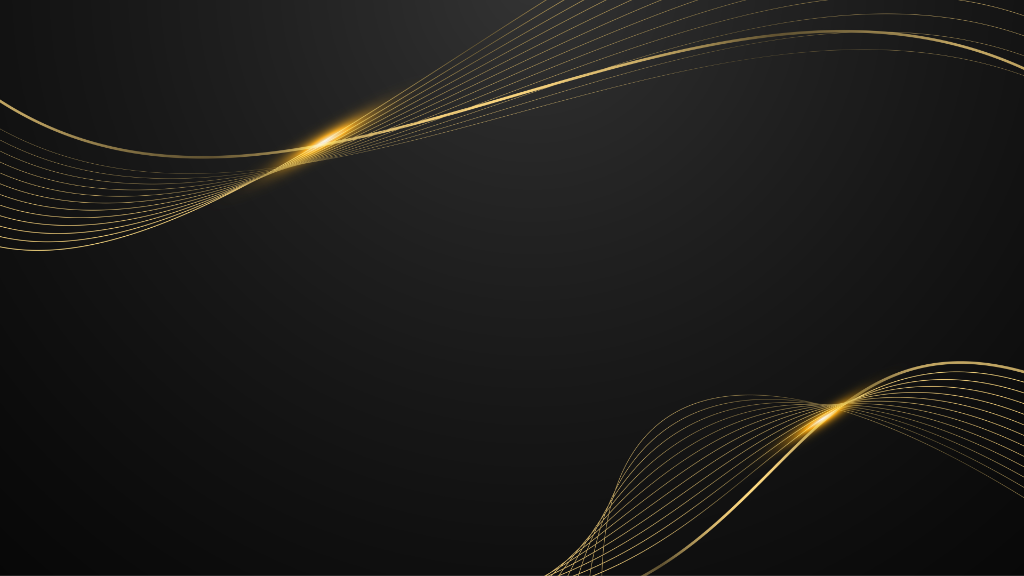
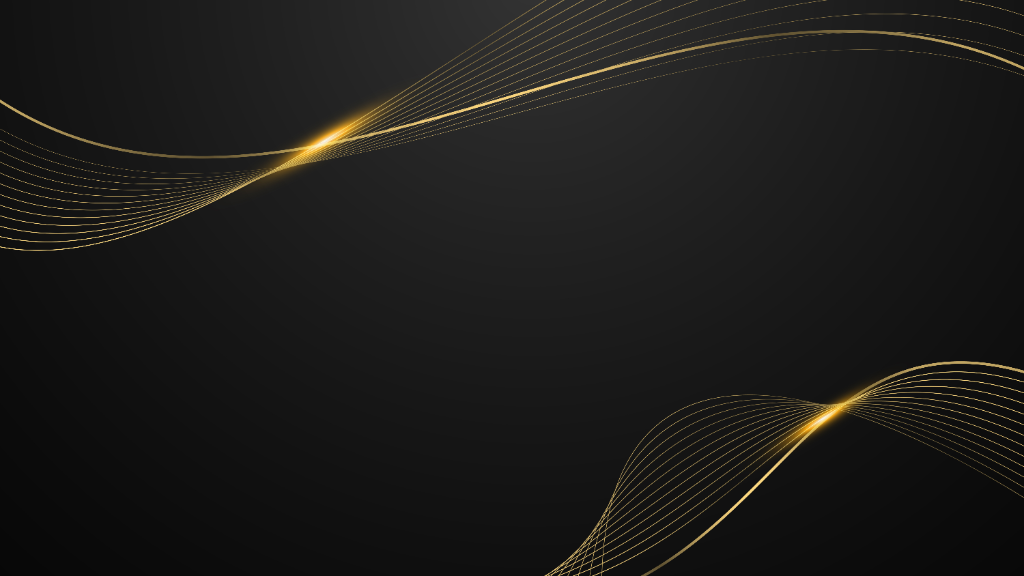
feat: update to high-resolution background and make sidebar/navbar fully white

diff --git a/src/components/Navbar.jsx b/src/components/Navbar.jsx
@@ -16,7 +16,7 @@ const Navbar = ({ onToggleSidebar }) => {
 
   return (
     <header className="sticky top-0 z-30 px-8 py-6">
-      <div className="mx-auto flex max-w-7xl items-center justify-between rounded-2xl border border-glass-border bg-white/70 px-8 py-4 shadow-luxury backdrop-blur-xl">
+      <div className="mx-auto flex max-w-7xl items-center justify-between rounded-2xl border border-glass-border bg-white px-8 py-4 shadow-3d transition-all duration-300 hover:shadow-lifted">
         <div className="flex items-center gap-8">
           <button
             type="button"

diff --git a/src/components/Sidebar.jsx b/src/components/Sidebar.jsx
@@ -10,7 +10,7 @@ const navItems = [
 
 const Sidebar = ({ collapsed, onToggle }) => (
   <aside
-    className={`relative flex h-screen flex-col border-r border-glass-border bg-white/80 backdrop-blur-2xl shadow-luxury ${collapsed ? 'w-20' : 'w-72'
+    className={`relative flex h-screen flex-col border-r border-glass-border bg-white shadow-luxury ${collapsed ? 'w-20' : 'w-72'
       } transition-all duration-500 ease-[cubic-bezier(0.25,1,0.5,1)] z-50`}
   >
     <div className="flex items-center gap-4 px-8 py-10">
